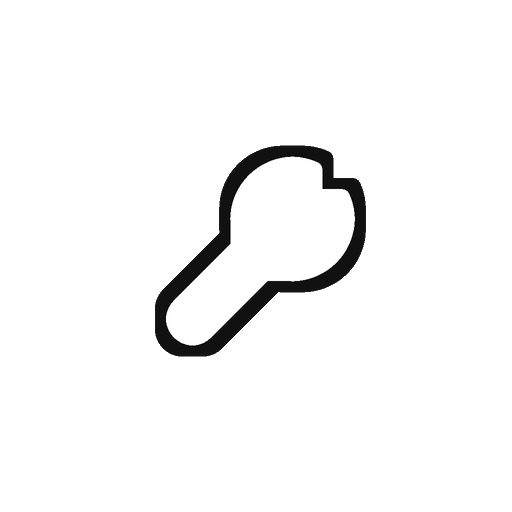
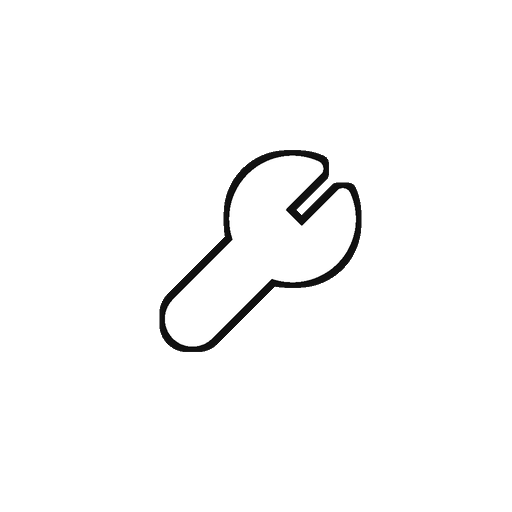
Dial the Toolbox wrench back to a medium weight.
Keep the dark wrench at the original silhouette width instead of expanding it, so it reads bold on black without looking bloated.

Changed region(s): [[0.2812, 0.2812, 0.7188, 0.7188]]

diff --git a/index.html b/index.html
@@ -41,7 +41,7 @@
 
     <link rel="manifest" href="%BASE_URL%manifest.webmanifest" />
     <link rel="icon" href="%BASE_URL%logo.svg" type="image/svg+xml" />
-    <link rel="apple-touch-icon" href="%BASE_URL%apple-touch-icon-bold.png" />
+    <link rel="apple-touch-icon" href="%BASE_URL%apple-touch-icon-medium.png" />
     <link rel="apple-touch-startup-image" href="%BASE_URL%splash/splash-1290x2796.png" media="(device-width: 430px) and (device-height: 932px) and (-webkit-device-pixel-ratio: 3)" />
     <link rel="apple-touch-startup-image" href="%BASE_URL%splash/splash-1179x2556.png" media="(device-width: 393px) and (device-height: 852px) and (-webkit-device-pixel-ratio: 3)" />
     <link rel="apple-touch-startup-image" href="%BASE_URL%splash/splash-1170x2532.png" media="(device-width: 390px) and (device-height: 844px) and (-webkit-device-pixel-ratio: 3)" />
